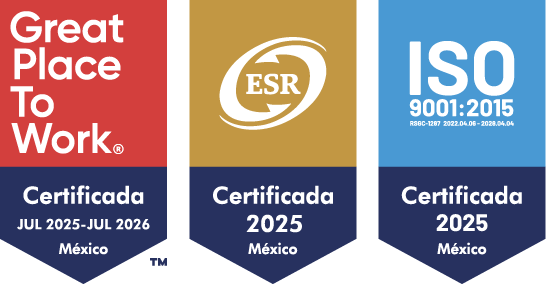
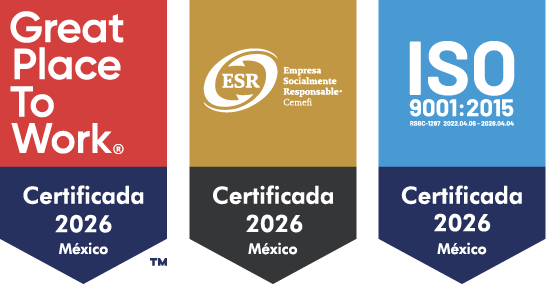
Requested changes - 20260617

diff --git a/web/views/about-us.php b/web/views/about-us.php
@@ -234,7 +234,7 @@
                                  data-aos="fade-left" data-aos-delay="300" data-aos-duration="1000">
                                 <div>
                                     <h3 class="mb-4 h5">
-                                        GPW 2025 <br>
+                                        GPW <br>
                                         Construyendo lugares de trabajo increíbles
                                     </h3>
                                     <p>
@@ -244,7 +244,7 @@
                                         confianza, la comunicación y el crecimiento profesional.
                                     </p>
                                     <p>
-                                        Obtener el distintivo GPW 2025 confirma que nuestro compromiso con el bienestar,
+                                        Obtener el distintivo GPW confirma que nuestro compromiso con el bienestar,
                                         el respeto y la integridad se vive todos los días, fortaleciendo relaciones y
                                         generando orgullo de pertenencia. Porque aquí, cada voz cuenta, cada talento suma y
                                         <b>juntos dejamos huella</b>, construyendo un lugar donde trabajar se convierte en motivo de inspiración.
@@ -265,7 +265,7 @@
                                  data-aos="fade-left" data-aos-delay="300" data-aos-duration="1000">
                                 <div>
                                     <h3 class="mb-4 h5">
-                                        ESR 2025 <br>
+                                        ESR <br>
                                         Responsabilidad que deja huella
                                     </h3>
                                     <p>
@@ -274,7 +274,7 @@
                                         comunidad, nuestro entorno y nuestra gente.
                                     </p>
                                     <p>
-                                        La obtención del distintivo ESR 2025 reafirma que nuestros esfuerzos en temas éticos,
+                                        La obtención del distintivo ESR reafirma que nuestros esfuerzos en temas éticos,
                                         sociales y ambientales están alineados con las mejores prácticas. Desde el respeto a
                                         los derechos humanos hasta la promoción del desarrollo sostenible, trabajamos para
                                         ser una empresa que no solo crece, sino que también suma.

diff --git a/web/fragments/top-ten.php b/web/fragments/top-ten.php
@@ -33,7 +33,7 @@
                         </div>
                         <div class="product-card-info">
                             <h6 class="product-title fs-85">
-                                <a href="<?php echo $viewsPath; ?>product-detail?g=<?php echo htmlspecialchars($product['product_group']); ?>"><?php echo htmlspecialchars($product['line_name']) . ' - ' . htmlspecialchars($product['sku']); ?></a>
+                                <a href="<?php echo $viewsPath; ?>product-detail?g=<?php echo htmlspecialchars($product['product_group']); ?>"><?php echo htmlspecialchars($product['sku']); ?></a>
                             </h6>
                         </div>
                     </div>

diff --git a/app/services/web/ProductWebService.php b/app/services/web/ProductWebService.php
@@ -34,7 +34,7 @@ class ProductWebService extends BaseDAO {
             columns: $columns,
             joins: self::COMMON_JOIN,
             conditions: $conditions,
-            orderBy: 'p.top_ten'
+            orderBy: 'p.top_ten_order ASC'
         );
         return parent::findAll($queryData);
     }
